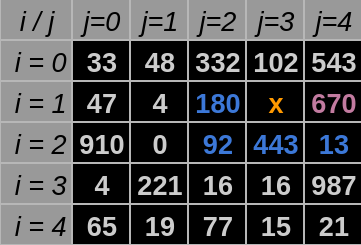
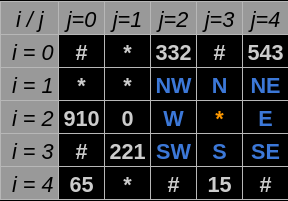
Atualizando o README.md

diff --git a/src/ReadFunctions.cpp b/src/ReadFunctions.cpp
@@ -4,7 +4,7 @@
 
 using namespace std;
 
-/// @brief Lê a primeira linha do arquivo input.data e retorna uma variável que representa o tamanho das matrizes contidas nesse arquivo
+/// @brief Lê a primeira linha do arquivo input.data
 /// @return O tamanho das matrizes à serem lidas
 unsigned short int SizeRecon()
 {
@@ -16,6 +16,8 @@ unsigned short int SizeRecon()
     return (ArrayArea+1);
 }
 
+/// @brief Lê a primeira linha do arquivo input.data
+/// @return  O número de matrizes a serem lidas nesse arquivo
 unsigned int HowMuchMatrixes()
 {
     int size;

diff --git a/README.md b/README.md
@@ -167,7 +167,7 @@ ____________________________________________
 Os arquivos para funcionamento do projeto são:
 - `input.data` : Um arquivo que armazena na sua primeira linha a ordem das matrizes que estão dispostas nas linhas subsequentes.
 <div align="center">
-<strong>Figura 2</strong> - input.data    
+<strong>Figura 3</strong> - input.data    
 <br>
 <img src="./img/Imagem3.png" width="35%">
 <br>
@@ -193,21 +193,22 @@ ____________________________________________
 <br><br>
 ### Funcionamento
 #### 1. Primeira Leitura do Arquivo
- A leitura das entradas do arquivo `input.data` são realizadas em 2 etapas, na primeira etapa é executada a função _**SizeRecon**_.
+ A leitura das entradas do arquivo `input.data` é realizada apenas 1 vez, em primeiro lugar o código reconhece qual a ordem da matriz e quantas matrizes estarão presentes no arquivo de entrada, isso será realizado respectivamente pelas funções _**SizeRecon**_ e _**HowMuchMatrixes**_.
 
- A função SizeRecon é responsável por ler a primeira linha do arquivo de entrada e retornar à alguma variável o valor de $N$, este valor serve para todas as $K$ matrizes contidas no arquivo `input.data`.
+ A função SizeRecon é responsável por ler a primeira linha do arquivo de entrada e retornar $N$, este valor serve para todas as $K$ matrizes contidas no arquivo `input.data`.
 
-#### 2. Segunda Leitura do Arquivo.
-Com $N$ armazenada na variável _**size**_ o código, uma estrutura de tamanho $N$ do tipo _**MatrixElement**_ denominada _**FinalMatrix**_ é criada para que os valores do arquivo `input.data` sejam alocados em uma variável. A estrutura do tipo _**MatrixElement**_ nesse caso será uma matriz com variávies do tipo unsigned short int como elementos $a_{ij}$.
+#### 2. Armazenando dados do Arquivo.
+ Com os valores de $N$ e $K$ sendo fornecidos pelas funções como foi colocado, uma estrutura de tamanho $N$ do tipo _**Matrix**_ denominada _**MatrixLabyrinth**_ é criada para que os valores do arquivo `input.data` ou `Output.data` sejam alocados em uma variável conforme as leituras e escritas ocorram de forma recorrente. A estrutura do tipo _**Matrix**_ possui atributos importantes mas o principal para continuar nosso entendimento a cerca do código é um vetor alocado dinâmicamente chamado _***Labyrinth**_, ou seja, a matriz que armazena os valores $a_{ij}$ contidos no arquivo.
 
-Para a leitura das $K$ matrizes um laço percorre o arquivo armazenando cada elemento identificado em uma posição da estrutura _**FinalMatrix**_, essa mesma estrutura é reiniciada assim que: _**MatrixLines**_  =  $N-1$ . Considerando que _**MatrixLines**_ é uma variável criada para armazenar o número de linhas preenchidas com entradas do arquivo.
+Para a leitura das $K$ matrizes um laço percorre o arquivo armazenando cada elemento identificado em uma posição da estrutura _**Labyrinth**_, essa mesma estrutura é reiniciada assim que: _**MatrixLines**_  =  $N-1$ . Considerando que _**MatrixLines**_ é uma variável criada para armazenar o número de linhas preenchidas com entradas do arquivo.
 
 
  
-#### 3. Percorrendo a Matriz:
+#### 3. Percorrendo Matrizes:
+
 
 #### 3.1. Localização inicial
-Diante do que foi narrado, o programa recebe do usuário as coordenadas de $i$ e $j$ para inicializar a pesquisa através da martriz partindo do elemento $a_{ij}$. A entrada de i e j é requisitada através de _**CoordinateDefinition**_.
+Diante do que foi narrado, o programa gera coordenadas de $i$ e $j$ aleatoriamente para inicializar a pesquisa através da martriz partindo do elemento $a_{ij}$. A função _**Spawn**_ gera aleatoriamente os valores de $i$ e $j$ para dar início ao percorrimento da matriz.
 
 
 #### 3.2. Direções possíveis
@@ -216,31 +217,12 @@ O programa usa $a_{ij}$ como posição em que está no presente, ele verifica a 
 
 A validação citada ocorre através do seguinte modo:
 
-- Criação de hipóteses dentro de variáveis booleanas,sendo o resultádo dessas variáveis é dependente da posição atual.As variáveis booleanas criadas tem os nomes de pontos cardeais em inglês, são elas _**W**_,_**SW**_,_**S**_,_**SE**_,_**E**_ e podem ser verdadeiras ou falsas de maneiras diferentes tornando diversos caminhos possíveis. 
+- Criação de hipóteses dentro de variáveis booleanas,sendo o resultado dessas variáveis é dependente da posição atual.As variáveis booleanas criadas tem os nomes de pontos cardeais em inglês, são elas _**N**_,_**NE**_,_**NW**_,_**W**_,_**SW**_,_**S**_,_**SE**_,_**E**_ e podem ser verdadeiras ou falsas de maneiras diferentes tornando diversos caminhos possíveis. 
 
 Por fim pode-se abstrair a situação acima nas seguintes ilustrações, considerando que o elemento de cor laranja é o local atual:
 
 <div align="center">
-<strong>Figura 3</strong> - 5 possíveis caminhos    
-<br>
-<img src="./img/Imagem3.png" width="35%">
-<br>
-Fonte: Construção pelo autor³.
-<br>
-____________________________________________
-<br>³Criada usando o Google Sheets, Disponível em <a href="https://docs.google.com/spreadsheets/d/1nbK5ybx7Lwp98y11IScqkPUhSizV1jwG1KyGsdvTEjI/edit?usp=sharing">Planilha</a>.
-</div>
-<br>
-
-#### 3.3. A melhor direção local:
-Após analisar as hipóteses, a decisão de qual é o melhor caminho a seguir é feita considerando o $a_{ij}$ de maior valor, enquanto esta posição de maior valor seja diferente da última posição. Isso significa que em nenhum momento o próximo passo pode se o passo anterior, afinal isso faria com que duas casas próximas com o maior valor possível fossem as únicas escolhidas.
-
-Para buscar a maior direção válida, o programa decide quais são os pontos cardeais válidos, à depender disso ele executa uma das seguintes funções possíveis:
-
-- _**FivePossibleWays**_: Verifica qual o maior dentre 5 elementos, tendo uma posição de coordenadas $i$ e $j$ diferentes da posição passada. Exemplo na **Figura 4**.
-
-<div align="center">
-<strong>Figura 4</strong> - Maior valor entre 5
+<strong>Figura 4</strong> - 8 possíveis caminhos    
 <br>
 <img src="./img/Imagem4.png" width="35%">
 <br>
@@ -251,10 +233,15 @@ ____________________________________________
 </div>
 <br>
 
-- _**SouthEastPossibleWays**_: Verifica qual o maior dentre 3 elementos, tendo uma posição de coordenadas $i$ e $j$ diferentes da posição passada. Estes elementos estão ao Sul, Leste ou Sudeste do $a_{ij}$ atual. Exemplo na **Figura 5**.
+#### 3.3. Escolha entre Direções Locais:
+Após analisar as hipóteses, a decisão de qual caminho seguir é realizada através da escolha de coordenadas possíves, sendo elas definidas pela função _**CoordinateDefinition**_. Uma vez que o personagem escolhe uma nova coordenada, seus atributos são alterados pela função _**PlayerAndLabyrinthUpdate**_.
+
+- _**CoordinateDefinition**_: Escolhe uma casa adjascente aleatória para caminhamento. Essa escolha é realizada de forma repetida até que o valor da coordenada escolhida esteja alocada pela matriz e seja diferente de uma parede.
+
+- _**PlayerAndLabyrinthUpdate**_: Adiciona passos ao contador de passos, contabiliza itens na inventário para aumento de pontos de vida, descrementa pontos de vida ao enfrentar um perigo e atualiza atributos da Rotunda.
 
 <div align="center">
-<strong>Figura 5</strong> - 3 possíveis caminhos para Sul e Leste.     
+<strong>Figura 5</strong> - Validando as coordenadas válidas para deslocamento, sendo elas  Noroeste, Norte e Nordeste
 <br>
 <img src="./img/Imagem5.png" width="35%">
 <br>
@@ -265,33 +252,38 @@ ____________________________________________
 </div>
 <br>
 
-- _**SouthWestPossibleWays**_: Verifica qual o maior dentre 3 elementos, tendo uma posição de coordenadas $i$ e $j$ diferentes da posição passada. Estes elementos estão ao Sul, Oeste ou Sudoeste do $a_{ij}$ atual. Exemplo na **Figura 6**.
+#### 3.4. Trocando de Matriz
+No momento em que o personagem alcança a última coluna da matriz local a função _**FileUpdate**_ escreve as alterações da matriz local durante a caminhada em um arquivo `Output.data` e o personagem começa a realizar o percorrimento da próxima matriz.
+
+- Quando o jogador alcança a última coluna da última matriz presente em no arquivo `input.data`, a função _**FileUpdate**_ passa a realizar a leitura e escrita dentro do arquivo `Output.data`.
+
+#### 3.5. Casos Especiais
+Existem alguns casos particulares onde teremos uma derrota causada por motivos diversos:
+
+- Quando o jogador inicia uma trajetória que em algum momento passa pelo mesmo ponto onde ela começou sendo que este não capturou nenhum item, o jogo é perdido. Para computar essa derrota foram criadas as funções e estruturas de dados à seguir:
+
+ - _**Roundabout**_: Roundabout ou Rotunda é um item no inventário do jogador, esse vetor passa a armazenar as coordenadas percorridas por um jogador à partir do momento que ele passa a viajar por casas de valor $0$, o item armazena uma coordenada por matriz e é esvaziado caso o jogador pegue um item tendo de ser preenchido de novo. Isso foi modelado de maneira ilustrativa por um vetor, este vetor tem como tamanho o número de matrizes contidas no arquivo `input.data`;
+
+ - _**UpdatingPlayerRoundabout**_: Função que atualiza os valores na Rotunda, preenchendo-a caso o jogador pegue um zero em uma matriz onde ele não pegou esse valor ainda, ou esvaziando-a caso o jogador pegue um item. Caso a rotunda esteja completamente preenchida o atributo _**WinCondition**_ do jogador se torna falso e ele é morto pela função _**GameOver**_.
+
+ - _**MatrixNotOnRoundabout**_: Função que verifica se as coordenadas da matriz atual já foram armazenadas na rotunda, ou seja, se o jogador já pegou $0$ na matriz atual ou não.
+
+ - _**RestartRoundabout**_: Função que esvazia a rotunda quando o jogador pega um item.
+
+ - Ao se considerar um caso com $K = 2$ com $N = 5$, onde em algum momento o trajeto sinalizado é realizado, tendo o ponto inicial na primeira matriz como $a_{20}$ e o ponto final como $a_{20}$ na primeira matriz, pode-se conceber um caso onde o jogador morre por preenchimento da rotrunda. Acompanhe o exemplo na imagem à seguir
+
+
+
 <div align="center">
-<strong>Figura 6</strong> - 3 possíveis caminhos para Sul e Oeste.    
+
+<strong>Figura 6</strong> - Casa inicial ou presente é igual casa final.    
 <br>
-<img src="./img/Imagem6.png" width="35%">
+<img src="./img/Imagem6.png" width="40%">
 <br>
 Fonte: Construção pelo autor⁶.
 <br>
 ____________________________________________
 <br>⁶Criada usando o Google Sheets, Disponível em <a href="https://docs.google.com/spreadsheets/d/1nbK5ybx7Lwp98y11IScqkPUhSizV1jwG1KyGsdvTEjI/edit?usp=sharing">Planilha</a>.
-</div>
-<br>
-
-#### 3.4. Casos Especiais
-Existem alguns casos particulares onde teremos os seguintes movimentos:
-
-- Quando a posição atual como $a_{ij}$ tem seus valores de $i = N-1$ e $j =N-1 $, ou seja, quando a posição atual for a última posição.Nesse caso a pesquisa na matriz é finalizada.
-<div align="center">
-
-<strong>Figura 7</strong> - Casa inicial ou presente é igual casa final.    
-<br>
-<img src="./img/Imagem7.png" width="35%">
-<br>
-Fonte: Construção pelo autor⁷.
-<br>
-____________________________________________
-<br>⁷Criada usando o Google Sheets, Disponível em <a href="https://docs.google.com/spreadsheets/d/1nbK5ybx7Lwp98y11IScqkPUhSizV1jwG1KyGsdvTEjI/edit?usp=sharing">Planilha</a>.
 </div>
 <br>
 
